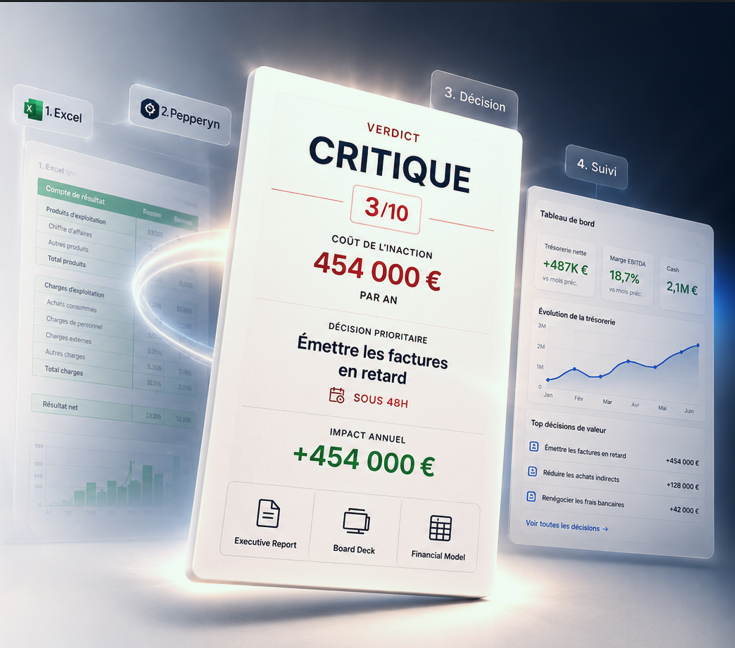
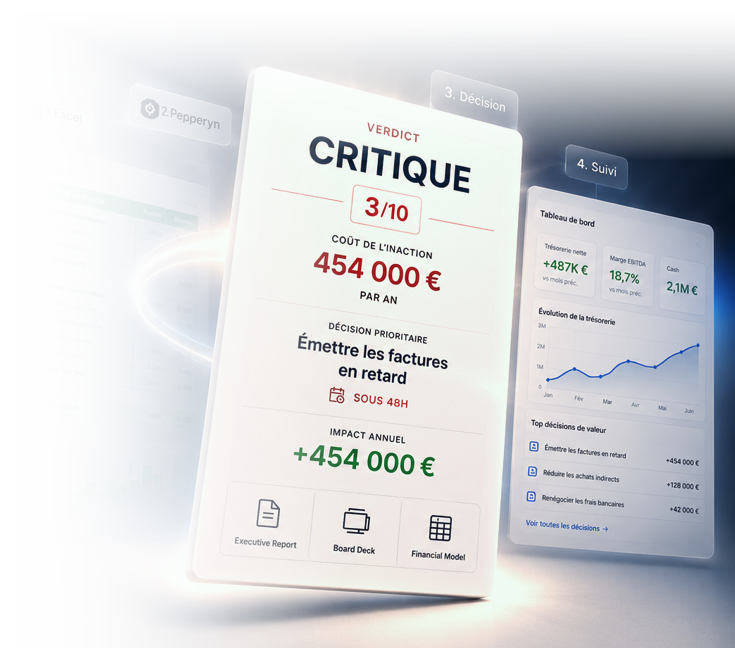
Bake transparency into hero image for truly seamless blend
Instead of CSS overlays fighting the image, modify hero-image.png directly:
- Left edge: 350px ease-in² transparency (0%→100% opacity)
- Top edge:  160px ease-in² transparency (0%→100% opacity)

CSS: remove all overlays, set backgroundColor: #e3e2e6 (= left column right
edge) so transparent image pixels reveal the same color as the left column.
Result: zero-seam join, no dark top strip, no CSS specificity fights.

diff --git a/frontend/components/landing/HeroSection.tsx b/frontend/components/landing/HeroSection.tsx
@@ -177,54 +177,25 @@ export function HeroSection() {
       </div>
 
       {/* ═══════════════════════════════════════════════════════════════
-          COLONNE DROITE — image produit via background-image CSS
-          Approche background-image : aucun problème de résolution de hauteur
-          (contrairement à <img height:100%> ou position:absolute qui dépendent
-          d'une hauteur explicite sur le parent — non garantie en flex layout).
-          Le div remplit son espace flex naturellement ; background-size:cover
-          fait le reste. Fallback fond #0A1528 si l'image ne charge pas.
+          COLONNE DROITE — image avec transparence baked-in
+          hero-image.png a été modifié avec Pillow : dégradé ease-in²
+          de transparence sur 350px (gauche) et 160px (haut).
+          backgroundColor: #e3e2e6 = bord droit exact de la col. gauche
+          → les zones transparentes révèlent cette couleur → jonction invisible.
+          Aucun overlay CSS nécessaire.
       ═══════════════════════════════════════════════════════════════ */}
       <div
-        className="relative flex-1 w-full min-h-[400px] lg:min-h-0"
+        className="flex-1 w-full min-h-[400px] lg:min-h-0"
         role="img"
         aria-label="Illustration produit Pepperyn"
         style={{
-          backgroundColor: '#0A1528',
+          backgroundColor: '#e3e2e6',
           backgroundImage: "url('/hero/hero-image.png')",
           backgroundSize: 'cover',
-          backgroundPosition: 'left center',
+          backgroundPosition: 'left top',
           backgroundRepeat: 'no-repeat',
         }}
-      >
-        {/*
-          Overlay 120px : lisse les variations verticales du bord gauche de
-          l'image (top #C9D9E1 / center #EAEFF7 / bottom #E2E8F3 ≠ #DCE5EE).
-          absolute + inset-y-0 = s'étire sur toute la hauteur sans height:100%.
-        */}
-        {/* ── Overlay gauche 400px (horizontal) ──────────────────────────────
-            Paliers multiples pour simuler un fondu en courbe (css gradient
-            ne supporte pas l'easing natif). Reste opaque longtemps puis
-            s'efface vite à la fin — la zone de contenu reste lisible. */}
-        <div
-          className="hidden lg:block absolute inset-y-0 left-0 pointer-events-none"
-          style={{
-            width: '400px',
-            background: 'linear-gradient(to right, rgba(227,226,230,0.88) 0%, rgba(227,226,230,0.70) 20%, rgba(227,226,230,0.42) 50%, rgba(227,226,230,0.15) 75%, rgba(227,226,230,0) 100%)',
-            zIndex: 2,
-          }}
-        />
-        {/* ── Overlay haut 180px (vertical) ───────────────────────────────
-            Masque les pixels noirs en haut de l'image ET le coin dark en
-            haut à droite de la colonne (au-delà des 400px gauche). */}
-        <div
-          className="absolute inset-x-0 top-0 pointer-events-none"
-          style={{
-            height: '180px',
-            background: 'linear-gradient(to bottom, rgba(227,226,230,0.97) 0%, rgba(227,226,230,0.75) 25%, rgba(227,226,230,0.35) 60%, rgba(227,226,230,0) 100%)',
-            zIndex: 3,
-          }}
-        />
-      </div>
+      />
 
     </section>
   );